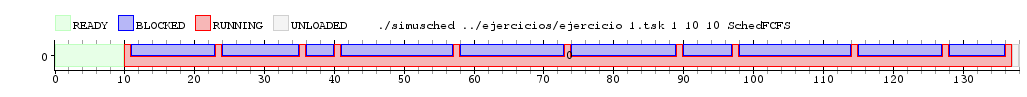
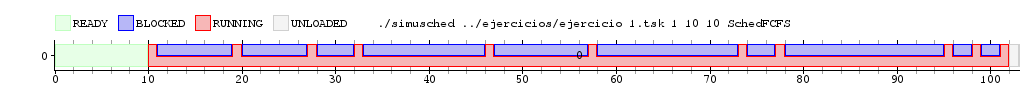
Ejercicio 7

diff --git a/src/sched_no_mistery.cpp b/src/sched_no_mistery.cpp
@@ -8,33 +8,30 @@ SchedNoMistery::SchedNoMistery(vector<int> argn) {
 	this->ticks = 0;
 
 	this->quantums.push_back(1);
+	this->ready.push_back(std::list<int>());
 
 	for (int i = 1; i < argn.size(); ++i) {
 		this->quantums.push_back(argn[i]);
+		this->ready.push_back(std::list<int>());
 	}
 }
 
 void SchedNoMistery::load(int p) {
 	this->pending[p] = 0;
-	// for (auto it = this->ready.end(); it != this->ready.begin(); it--){
-	// 	if (this->pending[*it] > this->pending[p]){
-	// 		this->ready.insert(it,p);
-	// 		this->pending[p] = 0;
-	// 		return;
-	// 	}
-	// }
-	this->readyB.push_back(p);
-	this->blocked[p] = false;
+	this->ready[0].push_back(p);
 }
 
 void SchedNoMistery::unblock(int pid) {
-	this->readyB.push_back(pid);
+	this->ready[this->pending[this->pid]].push_back(pid);
 }
 
-int SchedNoMistery::tick(int cpu, const enum Motivo m) {  
+int SchedNoMistery::tick(int cpu, const enum Motivo m) {
+	bool context = false;
+
 	switch (m) {
 		case TICK:
-			++this->ticks;	
+			++this->ticks;
+
 			if (this->pid != IDLE_TASK) {
 				int pending = this->pending[this->pid];
 				int quantum = this->quantums[pending];
@@ -44,72 +41,38 @@ int SchedNoMistery::tick(int cpu, const enum Motivo m) {
 						++this->pending[this->pid];
 					}
 
-					this->ready.push_back(this->pid);
-
-					if (!this->readyN.empty()) {
-						this->pid = this->readyN.front();
-						this->readyN.pop_front();
-					} else if (!this->readyB.empty()) {
-						this->pid = this->readyB.front();
-						this->readyB.pop_front();
-					} else if (!this->ready.empty()) {
-						this->pid = this->ready.front();
-						this->ready.pop_front();
-					}
-
-					this->ticks = 0;
+					this->ready[this->pending[this->pid]].push_back(this->pid);
+					context = true;
 				}
 			} else {
-				if (!this->readyN.empty()) {
-					this->pid = this->readyN.front();
-					this->readyN.pop_front();
-				} else if (!this->readyB.empty()) {
-					this->pid = this->readyB.front();
-					this->readyB.pop_front();
-				} else if (!this->ready.empty()) {
-					this->pid = this->ready.front();
-					this->ready.pop_front();
-				}
-				this->ticks = 0;
+				context = true;
 			}
-
 
 			break;
 		case BLOCK:
-			// if (this->pending[this->pid] < this->quantums.size() - 1) {
-			// 	++this->pending[this->pid];
-			// }
-
-			this->ticks = 0;
-			this->blocked[this->pid] = true;
-
-			if (!this->readyN.empty()) {
-				this->pid = this->readyN.front();
-				this->readyN.pop_front();
-			} else if (!this->readyB.empty()) {
-				this->pid = this->readyB.front();
-				this->readyB.pop_front();
-			} else if (!this->ready.empty()) {
-				this->pid = this->ready.front();
-				this->ready.pop_front();
-			} else {
-				this->pid = IDLE_TASK;				
+			if (this->pending[this->pid] > 0) {
+				--this->pending[this->pid];
 			}
 
+			context = true;
 			break;
 		case EXIT:
 			pending.erase(pid);
-			blocked.erase(pid);
-			this->ticks = 0;
-
-			if (this->ready.empty()) {
-				this->pid = IDLE_TASK;
-			} else {
-				this->pid = this->ready.front();
-				this->ready.pop_front();
-			}
-
+			context = true;
 			break;
+	}
+
+	if (context) {
+		this->pid = IDLE_TASK;
+		this->ticks = 0;
+
+		for (std::size_t i = 0; i < this->ready.size(); ++i) {
+			if (!this->ready[i].empty()) {
+				this->pid = this->ready[i].front();
+				this->ready[i].pop_front();
+				break;
+			}
+		}
 	}
 
 	return this->pid;

diff --git a/src/sched_no_mistery.h b/src/sched_no_mistery.h
@@ -15,9 +15,7 @@ class SchedNoMistery : public SchedBase {
   private:
   	/*! Cola de procesos en ready
   	 */
-  	std::list<int> ready;
-    std::list<int> readyB;
-    std::list<int> readyN;
+  	std::vector<std::list<int>> ready;
 
   	/*! Vector con los quantums que hay que asignar, en el orden que se desea
   	 */
@@ -26,7 +24,6 @@ class SchedNoMistery : public SchedBase {
   	/*! Indice en el vector de quantums que lleva la tarea, asi sabemos la longitud del proximo quantum a asignarle
   	 */
   	std::map<int, int> pending;
-    std::map<int, bool> blocked;
 
   	/*! PID del proceso corriendo actualmente
   	 */
@@ -34,7 +31,7 @@ class SchedNoMistery : public SchedBase {
 
   	/*! Parte del quantum por el que va la tarea actual
   	 */
-  	int ticks = -1;
+  	int ticks;
 };
 
 #endif
